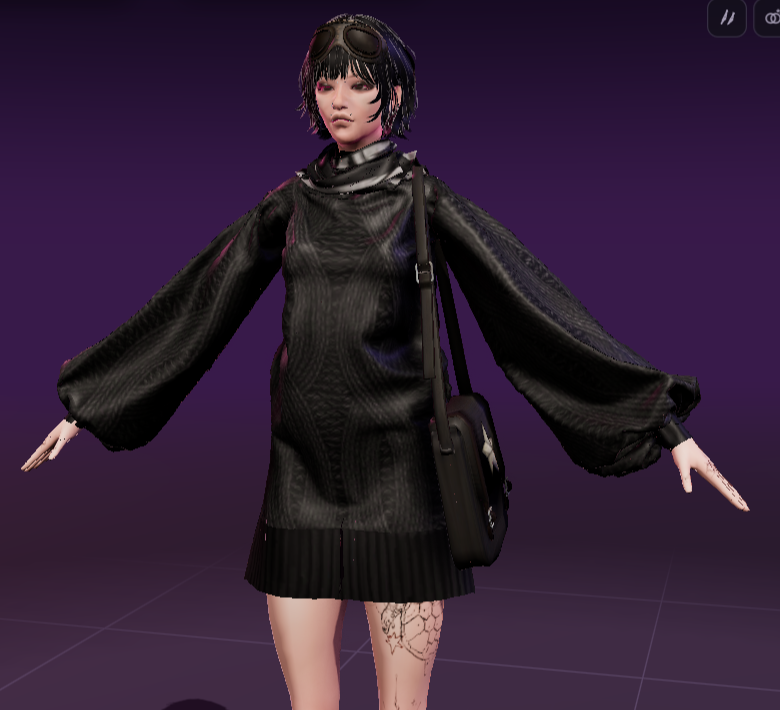
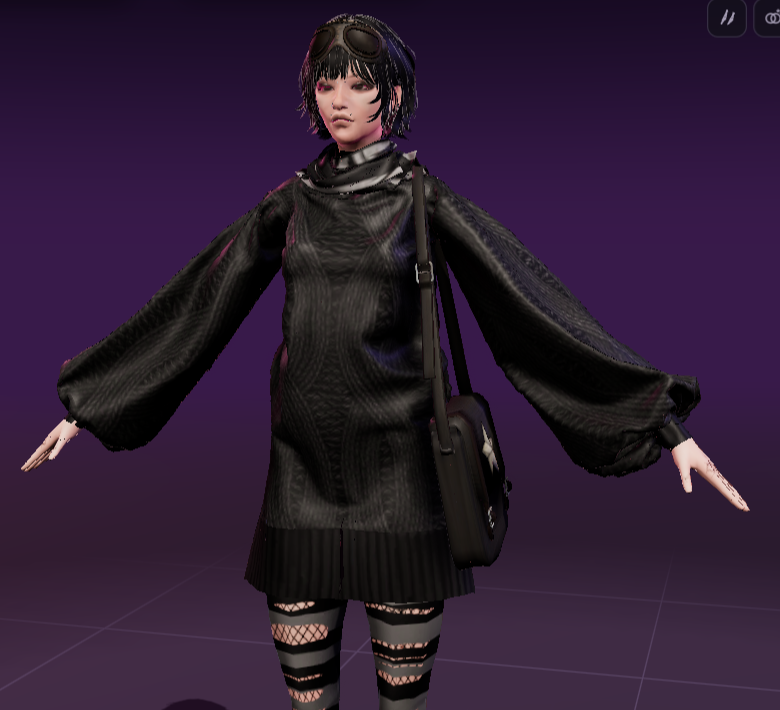
Animator: tights and other painted pieces show on the sim
Pieces the game paints on the skin instead of drawing a mesh (tights,
most socks and gloves) were listed as "not shown". Their picture is now
painted onto the skin under the garments, the way the game layers them.

Changed region(s): [[0.3385, 0.8366, 0.5846, 1.0]]

diff --git a/wicked_animator/web/js/clothes.js b/wicked_animator/web/js/clothes.js
@@ -107,7 +107,7 @@ function fetchPart(app, casp, shape) {
   const key = `${casp}@${shape.shape_tray || ''}:${shape.shape_index ?? ''}`;
   if (!app._clothesParts.has(key)) {
     const p = json('/api/clothes_part?' + q({ casp, ...shape })).then(data => {
-      if (!data || !data.meshes || !data.meshes.length || !data.texture) return { data, texture: null };
+      if (!data || !data.texture || (!(data.meshes && data.meshes.length) && !data.painted)) return { data, texture: null };
       return new Promise(res => {
         _texLoader.load('/api/clothes_tex?file=' + encodeURIComponent(data.texture), tex => {
           tex.flipY = false; tex.colorSpace = THREE.SRGBColorSpace; tex.anisotropy = 4;
@@ -145,17 +145,21 @@ export async function loadClothes(app, v, s) {
   if (stale()) return 0;
   v.removeParts('clothes');
   const info = { label: outfit.label, shown: 0, missing: [], painted: [] };
+  const painted = [];                   // pieces the game paints on the skin (tights...): their pictures
   for (const p of outfit.parts || []) if (p.origin === null && !off.has(p.casp)) info.missing.push(partName(p));
   results.forEach((r, i) => {
     const p = parts[i], d = r && r.data;
     if (!d || d.origin === null || d.error) { info.missing.push(partName(p)); return; }
-    if (!d.meshes || !d.meshes.length) { if (d.painted) info.painted.push(d.name || partName(p)); return; }
+    if (!d.meshes || !d.meshes.length) { if (d.painted) (r.texture ? painted : info.painted).push(r.texture || d.name || partName(p)); return; }
     const before = (v.parts || []).length;
     v.addPart(d, r.texture, { role: 'clothes', soft: false, offset: 1, color: '#8a8fa3', info: { kind: d.kind || p.kind, casp: d.casp } });
     if ((v.parts || []).length > before) info.shown++;
   });
   v.clothesInfo = info;
-  await paintOnSkin(app, v, s, results.map(r => r && r.texture).filter(Boolean), key);
+  if (!(await paintOnSkin(app, v, s, painted, key))) {
+    // nothing to paint them on (no garment with a body mesh): say so, as before
+    for (const t of painted) info.painted.push(((results.find(r => r && r.texture === t) || {}).data || {}).name || 'a piece');
+  }
   applyVisibility(app);
   return info.shown;
 }
@@ -163,19 +167,22 @@ export async function loadClothes(app, v, s) {
 // As in the game, a garment is painted onto the sim's own skin picture: its texture is a see-through layer over the
 // skin (the arms of a top, the neck of a dress are skin), so the garment pieces draw the skin with every garment on
 // top of it, and the bare body under them is hidden (applyVisibility). Hats and accessories keep their own picture.
-async function paintOnSkin(app, v, s, textures, key) {
+// painted: the pictures of pieces the game paints on the skin (tights): they go on first, under the garments.
+// -> true when the garments were painted on the skin.
+async function paintOnSkin(app, v, s, painted, key) {
   const worn = (v.parts || []).filter(m => m.userData.role === 'clothes' && BODY.includes(m.userData.kind));
-  if (!worn.length) return;
+  if (!worn.length) return false;
   try { await app.skinReady(s.frame, v.toneKey !== undefined ? v.toneKey : (s.tone || '')); } catch { /* plain look below */ }
-  if (v.clothesKey !== key || app.simViews.get(s.id) !== v) return;
+  if (v.clothesKey !== key || app.simViews.get(s.id) !== v) return false;
   const skin = v.material && v.material.map && v.material.map.image;
-  if (!skin || !(skin.naturalWidth || skin.width)) return;           // no skin picture: garments keep their own look
+  if (!skin || !(skin.naturalWidth || skin.width)) return false;     // no skin picture: garments keep their own look
   const W = skin.naturalWidth || skin.width, H = skin.naturalHeight || skin.height;
   const canvas = document.createElement('canvas');
   canvas.width = W; canvas.height = H;
   const g = canvas.getContext('2d');
   g.drawImage(skin, 0, 0, W, H);
   // in the preview's order (outfit, top, bottom, tights, socks, shoes), each garment's layer over the skin
+  for (const t of painted) if (t && t.image) g.drawImage(t.image, 0, 0, W, H);
   const layers = worn.map(m => m.material.map).filter((t, i, a) => t && t.image && a.indexOf(t) === i);
   for (const t of layers) g.drawImage(t.image, 0, 0, W, H);
   const tex = new THREE.CanvasTexture(canvas);
@@ -187,6 +194,7 @@ async function paintOnSkin(app, v, s, textures, key) {
     m.material.alphaTest = 0;            // the skin fills in what the garment leaves open
     m.material.needsUpdate = true;
   }
+  return true;
 }
 
 export function reloadClothes(app, simId) {

diff --git a/wicked_animator/backend/clothes.py b/wicked_animator/backend/clothes.py
@@ -357,21 +357,14 @@ def _part_base(casp_inst):
            'meshes': meshes, 'texture': None, 'cache': key,
            'unknown_bones': sorted({'0x%08x' % h for g in geoms for h in (g.get('bone_hashes') or []) if h not in rig_index})}
     if not meshes:
-        # only a stand-in GEOM, or none: the game paints this part on the skin (tights, socks, most gloves)
+        # only a stand-in GEOM, or none: the game paints this part on the skin (tights, socks, most gloves) - its
+        # texture comes along, so the preview can paint it on the skin too
         out['painted'] = listed > 0 or not casp.get('geoms')
+        _write_texture(out, casp, pkg_path, key)
         out['seconds'] = round(time.time() - t0, 3)
         _remember(_mem, key, out, 64)
         return out
-    tgi = (casp.get('textures') or {}).get('diffuse')
-    if tgi:
-        try:
-            raw = hair._texture_bytes(tgi, pkg_path)
-            if raw:
-                name = 'clothes_%s.png' % key
-                hair._write_png(texfmt.decode(raw), os.path.join(CACHE, name))
-                out['texture'] = name
-        except Exception as ex:
-            out['texture_error'] = str(ex)
+    _write_texture(out, casp, pkg_path, key)
     out['seconds'] = round(time.time() - t0, 3)
     tmp = jpath + '.tmp'
     with open(tmp, 'w', encoding='utf-8') as f:
@@ -379,6 +372,22 @@ def _part_base(casp_inst):
     os.replace(tmp, jpath)
     _remember(_mem, key, out, 64)
     return out
+
+
+def _write_texture(out, casp, pkg_path, key):
+    """The part's diffuse (an overlay laid out like the skin picture) as a PNG in the cache: out['texture']."""
+    import texfmt
+    tgi = (casp.get('textures') or {}).get('diffuse')
+    if not tgi:
+        return
+    try:
+        raw = hair._texture_bytes(tgi, pkg_path)
+        if raw:
+            name = 'clothes_%s.png' % key
+            hair._write_png(texfmt.decode(raw), os.path.join(CACHE, name))
+            out['texture'] = name
+    except Exception as ex:
+        out['texture_error'] = str(ex)
 
 
 def _mesh(g, rig_index, fb):
